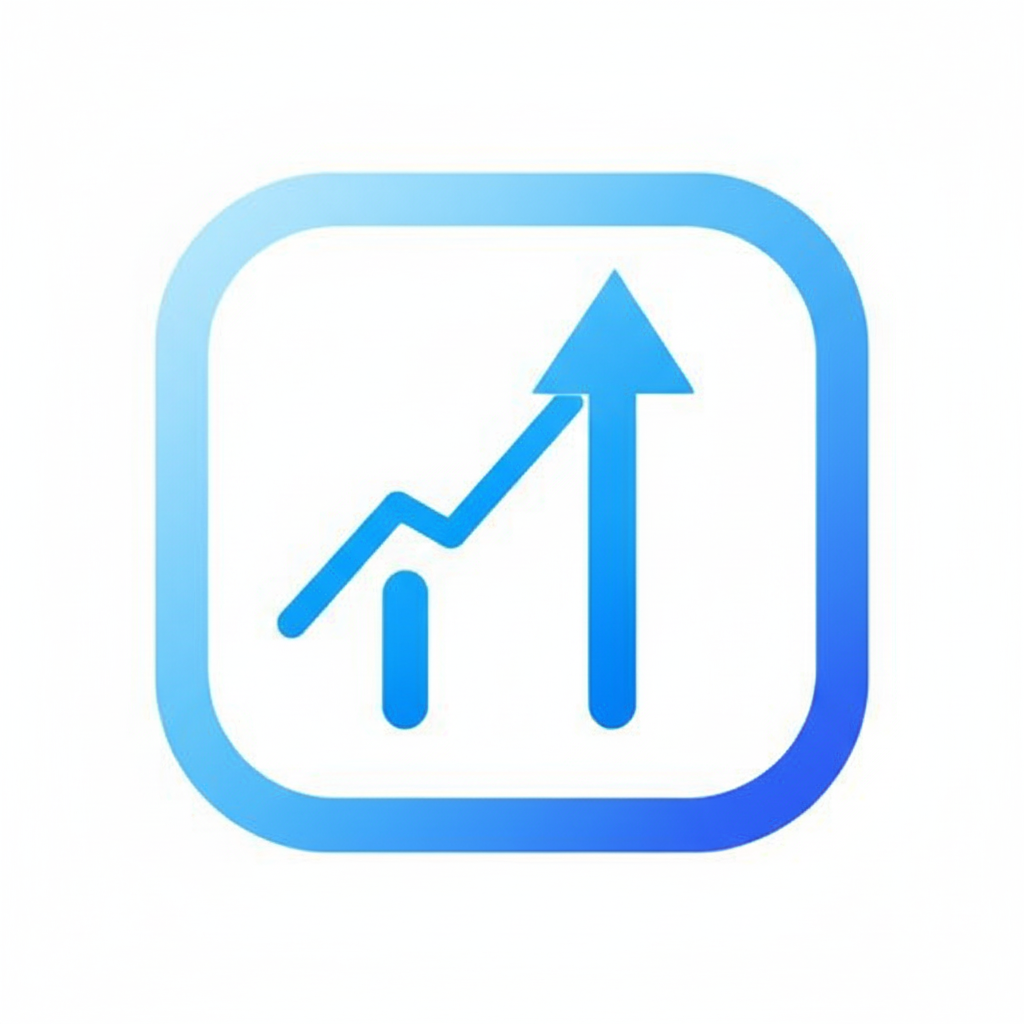
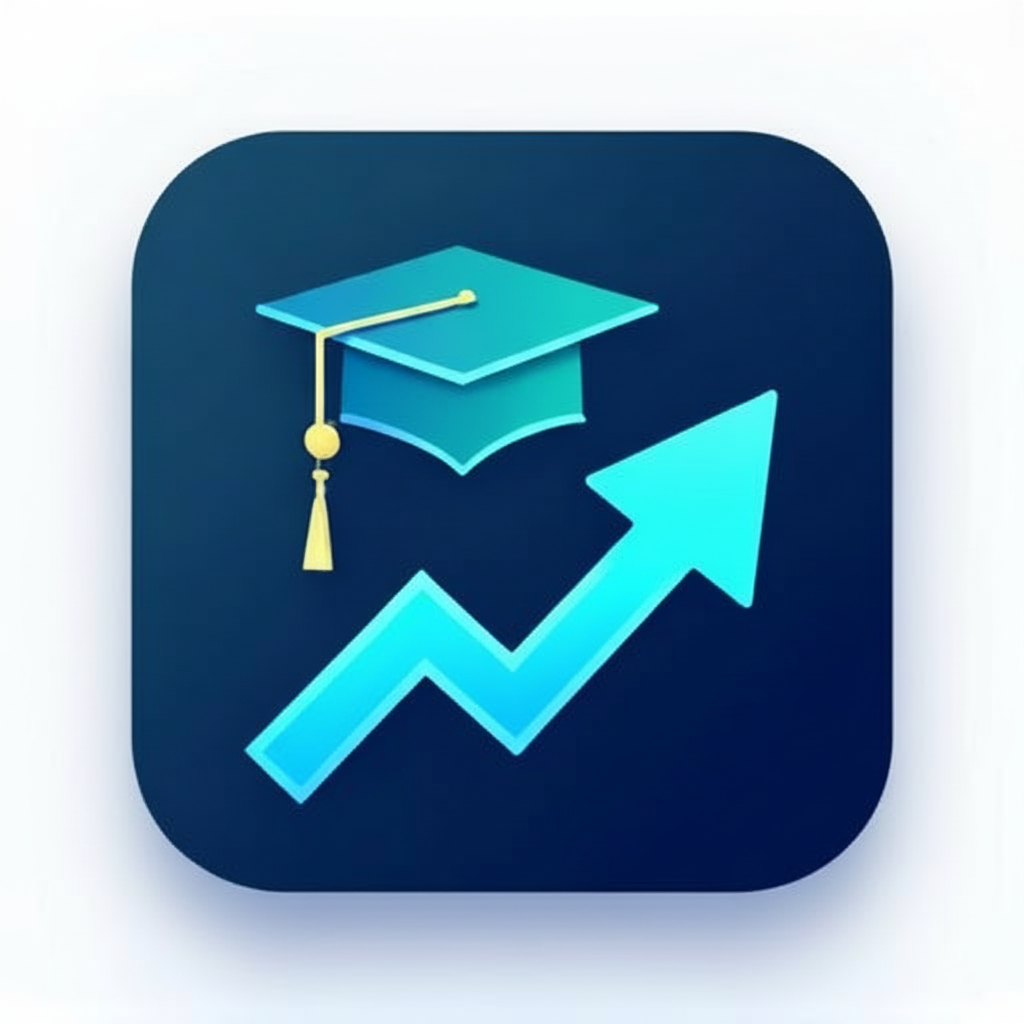
Changes

diff --git a/src/components/Navbar.tsx b/src/components/Navbar.tsx
@@ -11,6 +11,7 @@ import { useRealtimeNotifications } from "@/hooks/useRealtimeNotifications";
 import { useConversations } from "@/hooks/useMessages";
 import { AnimatePresence, motion } from "framer-motion";
 import ChatPopup from "@/components/ChatPopup";
+import appIcon from "@/assets/app-icon-512.png";
 
 const navItems = [
   { to: "/dashboard", label: "Dashboard", icon: LayoutDashboard },
@@ -58,7 +59,10 @@ const Navbar = () => {
       {/* Desktop top navbar */}
       <header className="sticky top-0 z-50 w-full border-b bg-background/95 backdrop-blur supports-[backdrop-filter]:bg-background/60 hidden md:block">
         <div className="container mx-auto flex h-14 items-center px-4 max-w-6xl">
-          <Link to="/dashboard" className="font-bold text-lg mr-8">📊 SPCT</Link>
+          <Link to="/dashboard" className="font-bold text-lg mr-8 flex items-center gap-2">
+            <img src={appIcon} alt="SPCT" className="w-7 h-7 rounded-md" />
+            SPCT
+          </Link>
           <nav className="flex items-center gap-1 flex-1">
             {navItems.map(({ to, label, icon: Icon }) => (
               <Link
@@ -101,7 +105,10 @@ const Navbar = () => {
       {/* Mobile top bar */}
       <header className="sticky top-0 z-50 w-full border-b bg-background/95 backdrop-blur supports-[backdrop-filter]:bg-background/60 md:hidden">
         <div className="flex h-12 items-center justify-between px-3">
-          <Link to="/dashboard" className="font-bold text-base">📊 SPCT</Link>
+          <Link to="/dashboard" className="font-bold text-base flex items-center gap-1.5">
+            <img src={appIcon} alt="SPCT" className="w-6 h-6 rounded-md" />
+            SPCT
+          </Link>
           <div className="flex items-center gap-1">
             <Button variant="ghost" size="icon" className="relative h-8 w-8" onClick={() => setChatOpen(true)}>
               <MessageCircle className="h-4 w-4" />

diff --git a/src/components/SplashScreen.tsx b/src/components/SplashScreen.tsx
@@ -1,0 +1,55 @@
+import { useState, useEffect } from "react";
+import { motion, AnimatePresence } from "framer-motion";
+import appIcon from "@/assets/app-icon-512.png";
+
+const SplashScreen = ({ onComplete }: { onComplete: () => void }) => {
+  const [visible, setVisible] = useState(true);
+
+  useEffect(() => {
+    const timer = setTimeout(() => {
+      setVisible(false);
+      setTimeout(onComplete, 500); // wait for fade-out
+    }, 1800);
+    return () => clearTimeout(timer);
+  }, [onComplete]);
+
+  return (
+    <AnimatePresence>
+      {visible && (
+        <motion.div
+          className="fixed inset-0 z-[9999] flex flex-col items-center justify-center bg-background"
+          initial={{ opacity: 1 }}
+          exit={{ opacity: 0 }}
+          transition={{ duration: 0.5, ease: "easeInOut" }}
+        >
+          <motion.img
+            src={appIcon}
+            alt="SPCT"
+            className="w-24 h-24 rounded-2xl shadow-2xl"
+            initial={{ scale: 0.5, opacity: 0 }}
+            animate={{ scale: 1, opacity: 1 }}
+            transition={{ type: "spring", stiffness: 260, damping: 20, delay: 0.1 }}
+          />
+          <motion.h1
+            className="mt-5 text-xl font-bold text-foreground tracking-tight"
+            initial={{ opacity: 0, y: 10 }}
+            animate={{ opacity: 1, y: 0 }}
+            transition={{ delay: 0.4, duration: 0.4 }}
+          >
+            SkillTracker
+          </motion.h1>
+          <motion.p
+            className="mt-1 text-sm text-muted-foreground"
+            initial={{ opacity: 0 }}
+            animate={{ opacity: 1 }}
+            transition={{ delay: 0.7, duration: 0.4 }}
+          >
+            Track your growth journey
+          </motion.p>
+        </motion.div>
+      )}
+    </AnimatePresence>
+  );
+};
+
+export default SplashScreen;

diff --git a/src/App.tsx b/src/App.tsx
@@ -1,3 +1,4 @@
+import { useState, useCallback } from "react";
 import { Toaster } from "@/components/ui/toaster";
 import { Toaster as Sonner } from "@/components/ui/sonner";
 import { TooltipProvider } from "@/components/ui/tooltip";
@@ -18,6 +19,7 @@ import Leaderboard from "./pages/Leaderboard";
 import Community from "./pages/Community";
 import UserProfile from "./pages/UserProfile";
 import NotFound from "./pages/NotFound";
+import SplashScreen from "./components/SplashScreen";
 
 const queryClient = new QueryClient();
 
@@ -42,20 +44,26 @@ const AnimatedRoutes = () => {
   );
 };
 
-const App = () => (
-  <QueryClientProvider client={queryClient}>
-    <ThemeProvider attribute="class" defaultTheme="system" enableSystem>
-      <AuthProvider>
-        <TooltipProvider>
-          <Toaster />
-          <Sonner />
-          <BrowserRouter>
-            <AnimatedRoutes />
-          </BrowserRouter>
-        </TooltipProvider>
-      </AuthProvider>
-    </ThemeProvider>
-  </QueryClientProvider>
-);
+const App = () => {
+  const [splashDone, setSplashDone] = useState(false);
+  const handleSplashComplete = useCallback(() => setSplashDone(true), []);
+
+  return (
+    <QueryClientProvider client={queryClient}>
+      <ThemeProvider attribute="class" defaultTheme="system" enableSystem>
+        <AuthProvider>
+          <TooltipProvider>
+            <Toaster />
+            <Sonner />
+            {!splashDone && <SplashScreen onComplete={handleSplashComplete} />}
+            <BrowserRouter>
+              <AnimatedRoutes />
+            </BrowserRouter>
+          </TooltipProvider>
+        </AuthProvider>
+      </ThemeProvider>
+    </QueryClientProvider>
+  );
+};
 
 export default App;

diff --git a/src/pages/Auth.tsx b/src/pages/Auth.tsx
@@ -13,6 +13,7 @@ import { useAuth } from "@/contexts/AuthContext";
 import { Navigate } from "react-router-dom";
 import { motion } from "framer-motion";
 import { Mail, Wand2, Loader2 } from "lucide-react";
+import appIcon from "@/assets/app-icon-512.png";
 
 const Auth = () => {
   const { user } = useAuth();
@@ -97,7 +98,8 @@ const Auth = () => {
               animate={{ scale: 1 }}
               transition={{ type: "spring", stiffness: 260, damping: 20, delay: 0.2 }}
             >
-              <CardTitle className="text-2xl font-bold">📊 Student Progress & Career Tracker</CardTitle>
+              <img src={appIcon} alt="SPCT" className="w-16 h-16 rounded-xl shadow-lg mx-auto mb-3" />
+              <CardTitle className="text-2xl font-bold">SkillTracker</CardTitle>
             </motion.div>
             <CardDescription>
               {isLogin ? "Sign in to track your progress" : "Create an account to get started"}

diff --git a/index.html b/index.html
@@ -6,10 +6,10 @@
     <meta name="mobile-web-app-capable" content="yes" />
     <meta name="apple-mobile-web-app-capable" content="yes" />
     <meta name="apple-mobile-web-app-status-bar-style" content="black-translucent" />
-    <title>Student Progress & Career Tracker</title>
+    <title>SkillTracker — Student Progress & Career Tracker</title>
     <meta name="description" content="Track skills, goals, and progress for any stream or course">
-    <meta name="author" content="Student Progress & Career Tracker" />
-    <meta name="theme-color" content="#2563eb" />
+    <meta name="author" content="SkillTracker" />
+    <meta name="theme-color" content="#0f172a" />
     <link rel="manifest" href="/manifest.json" />
     <link rel="apple-touch-icon" href="/icon-192.png" />
 
